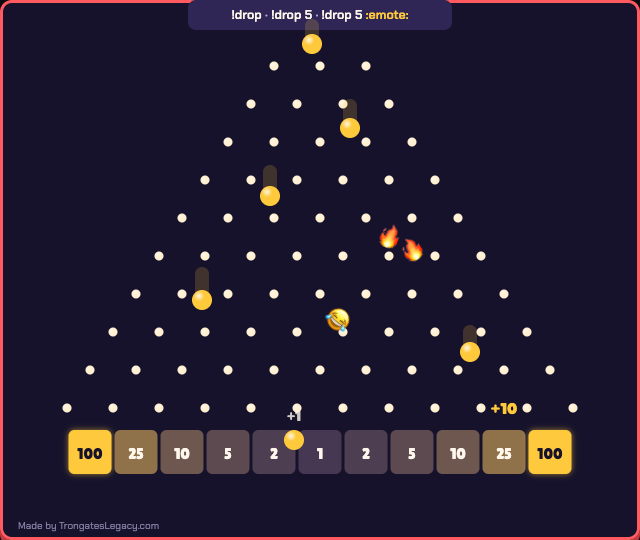
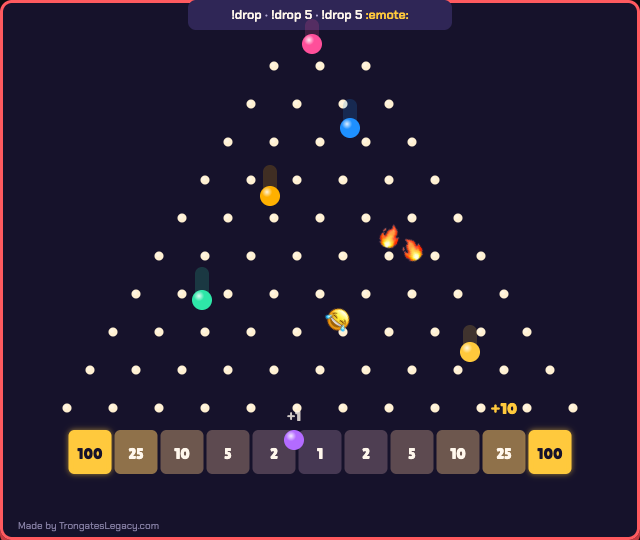
Chaplinko plan: separate or combined layout; transparent by default; the leaderboard shows This stream, All time or both, switching every N seconds; balls in the chatter's colour; combined mockup, mockups re-shot

diff --git a/docs/plans/chaplinko/mockup.html b/docs/plans/chaplinko/mockup.html
@@ -1,6 +1,6 @@
 <!doctype html>
 <!-- A still mockup of Chaplinko (docs/plans/chaplinko/plan.md), drawn with the real widget themes. Not the game:
-     nothing moves. ?v=classic|pachinko|tower|jackpot|clear|panel|strip|lbclear|scene|accents shows one frame at its real size (for screenshots);
+     nothing moves. ?v=classic|pachinko|tower|jackpot|clear|panel|strip|lbclear|scene|combined|accents shows one frame at its real size (for screenshots);
      no ?v shows them all. -->
 <html lang="en">
 <head>
@@ -102,9 +102,11 @@ function svg(w, h, parts) { return `<svg width="${w}" height="${h}" viewBox="0 0
   </defs>${parts.join('')}</svg>`; }
 
 const peg = (x, y, r = 4.5) => `<circle cx="${x}" cy="${y}" r="${r}" style="fill:color-mix(in srgb, var(--text) 85%, var(--accent))"/><circle cx="${x - 1.2}" cy="${y - 1.2}" r="${r * .45}" fill="#fff" opacity=".35"/>`;
-const ball = (x, y, r = 10, trail = 0) =>
-  (trail ? `<line x1="${x}" y1="${y - trail}" x2="${x}" y2="${y}" stroke-width="${r * 1.4}" stroke-linecap="round" style="stroke:var(--accent)" opacity=".18"/>` : '') +
-  `<circle cx="${x}" cy="${y}" r="${r}" style="fill:var(--accent)"/><circle cx="${x}" cy="${y}" r="${r}" fill="url(#shine)"/>`;
+// balls take the chatter's chat colour (the default); a chatter with none gets the accent
+const ball = (x, y, r = 10, trail = 0, c = 'var(--accent)') =>
+  (trail ? `<line x1="${x}" y1="${y - trail}" x2="${x}" y2="${y}" stroke-width="${r * 1.4}" stroke-linecap="round" style="stroke:${c}" opacity=".18"/>` : '') +
+  `<circle cx="${x}" cy="${y}" r="${r}" style="fill:${c}"/><circle cx="${x}" cy="${y}" r="${r}" fill="url(#shine)"/>`;
+const CHAT = ['#ff4f9a', '#1e90ff', '#ffb000', '#2ee6a8', 'var(--accent)', '#b36bff'];
 // an emote ball: in the game the emote's own image (Twitch/Kick CDN), spinning as it rolls; here an emoji stands in
 const emote = (x, y, e, r = 13, rot = 0) => `<text x="${x}" y="${y}" font-size="${r * 2}" text-anchor="middle" dominant-baseline="central" transform="rotate(${rot} ${x} ${y})">${e}</text>`;
 const text = (x, y, s, size, style = '') => `<text x="${x}" y="${y}" font-size="${size}" text-anchor="middle" dominant-baseline="central" style="font-family:var(--display);font-weight:var(--display-weight);${style}">${s}</text>`;
@@ -130,8 +132,8 @@ function classic(o = {}) {
   const bw = (rows + 1) * gap, sy = top + (rows - 1) * dy + 22;
   p.push(slots(cx - bw / 2, sy, bw, 44, vals));
   if (o.balls !== false) {
-    p.push(ball(cx - 8, 44, 10, 18), ball(cx + 30, 128, 10, 22), ball(cx - 50, 196, 10, 24), emote(cx + 70, 236, '🔥', 12, 20), emote(cx + 92, 250, '🔥', 12, -30),
-      ball(cx - 118, 300, 10, 26), emote(cx + 18, 320, '😂', 12, 40), ball(cx + 150, 352, 10, 20), ball(cx - 26, sy + 10, 10));
+    p.push(ball(cx - 8, 44, 10, 18, CHAT[0]), ball(cx + 30, 128, 10, 22, CHAT[1]), ball(cx - 50, 196, 10, 24, CHAT[2]), emote(cx + 70, 236, '🔥', 12, 20), emote(cx + 92, 250, '🔥', 12, -30),
+      ball(cx - 118, 300, 10, 26, CHAT[3]), emote(cx + 18, 320, '😂', 12, 40), ball(cx + 150, 352, 10, 20, CHAT[4]), ball(cx - 26, sy + 10, 10, 0, CHAT[5]));
     // a score floating up from a slot
     p.push(text(cx - 26, sy - 14, '+1', 14, 'fill:var(--text);opacity:.8'), text(cx + 184, sy - 22, '+10', 16, 'fill:var(--accent)'));
   }
@@ -195,9 +197,11 @@ const V = {
   lbclear: ['Leaderboard source, transparent: panel and strip straight over the game · chatagram and neon themes', () => `<div class="scene" style="width:960px;height:540px">
     <div style="position:absolute;left:0;top:0">${frame('chatagram', 300, 270, panel(), '', true)}</div>
     <div style="position:absolute;left:0;bottom:0">${frame('neon', 720, 72, strip(), '', true)}</div></div>`],
-  scene: ['How a streamer might place them: two sources over their game (1280×720)', () => `<div class="scene">
-    <div class="src-at" style="left:28px;top:28px;width:180px;height:162px"><div style="transform:scale(.6);transform-origin:0 0">${frame('royal', 300, 270, panel())}</div><span class="tag">leaderboard source</span></div>
-    <div class="src-at" style="right:28px;bottom:28px;width:384px;height:324px"><div style="transform:scale(.6);transform-origin:0 0">${frame('royal', 640, 540, classic())}</div><span class="tag">board source</span></div></div>`],
+  scene: ['Separate: two sources over the game, transparent (the default) (1280×720)', () => `<div class="scene">
+    <div class="src-at" style="left:28px;top:28px;width:180px;height:162px"><div style="transform:scale(.6);transform-origin:0 0">${frame('royal', 300, 270, panel(), '', true)}</div><span class="tag">leaderboard source</span></div>
+    <div class="src-at" style="right:28px;bottom:28px;width:384px;height:324px"><div style="transform:scale(.6);transform-origin:0 0">${frame('royal', 640, 540, classic(), '', true)}</div><span class="tag">board source</span></div></div>`],
+  combined: ['Combined: one source, the board with the leaderboard beside it · 960×540 · transparent (the default) · chatagram theme', () => `<div class="scene" style="width:960px;height:540px">${frame('chatagram', 960, 540,
+    `<div style="position:absolute;left:0;top:0">${classic()}</div><div style="position:absolute;right:0;top:0;width:300px;height:270px">${panel()}</div>`, '', true)}</div>`],
   accents: ['The same board, any theme and accent (640×540 each, shown at half size)', () => `<div class="mini">${[['neutral', ''], ['light', ''], ['cozy', ''], ['chatagram', '#2ee6a8'], ['neon', '#ff4155'], ['royal', '#ffd98a'], ['deep', '#45d6c8'], ['candy', '#ff7bd5']]
     .map(([t, a]) => `<div style="width:320px;height:270px;overflow:hidden"><div style="transform:scale(.5);transform-origin:0 0">${frame(t, 640, 540, classic({ w: 640 }), a)}</div></div>`).join('')}</div>`],
 };

diff --git a/docs/plans/chaplinko/plan.md b/docs/plans/chaplinko/plan.md
@@ -6,7 +6,8 @@ later (see "Later").
 
 Mockups (`mockup.html`, drawn with the real `themes.css`; `?v=<name>` shows one at its real size). Board source:
 [board](classic.png), [big win](jackpot.png), [transparent](clear.png), [themes and accents](accents.png). Leaderboard
-source: [panel](panel.png), [strip](strip.png), [transparent](lbclear.png). Both on a stream: [scene](scene.png).
+source: [panel](panel.png), [strip](strip.png), [transparent](lbclear.png). On a stream: [separate](scene.png),
+[combined](combined.png).
 
 ## What the owner asked for (2026-09-29)
 
@@ -17,8 +18,13 @@ source: [panel](panel.png), [strip](strip.png), [transparent](lbclear.png). Both
 - **Balls don't show names.** Names are for the leaderboard, and for a popup when someone hits the top slot ("pixelpriya
   scored 100").
 - Set up and configured the way Chatagram is.
-- **The leaderboard is a separate browser source**, placed wherever the streamer likes, and **compact**: just the list.
-- **Fully transparent** is an option for both the board and the leaderboard.
+- **Separate or combined** (2026-09-30): the board and the leaderboard as two browser sources, or as one source with
+  the leaderboard beside the board. The streamer picks.
+- The separate leaderboard is **compact**: just the list.
+- **Transparent by default** (2026-09-30), for the board and the leaderboard. A background is an option.
+- The leaderboard shows **This stream, All time, or both**; with both, it **switches between them every so many
+  seconds**, and the streamer sets how many (2026-09-30).
+- **Balls are the chatter's chat colour** by default (2026-09-30).
 - **The commands are shown on the board**, not on the leaderboard.
 - The name is **Chaplinko** (chat + Plinko). The command is `!drop`.
 
@@ -60,11 +66,21 @@ A Plinko triangle of pegs over a row of slots. Colours, fonts and frame come fro
 - **Top prize**: the highest slot value. Hitting it shows the big win card (below). Advanced → "Big win card for": top
   slot / top two / off.
 
-## Two browser sources
+## Separate or combined
 
-The streamer adds **two OBS browser sources** with two links from the set-up page. Both links carry the channels, which
-is how they find each other's data, and each has its own look settings. The leaderboard is optional: the board works on
-its own.
+The first choice on the set-up page is **Layout**:
+
+- **Separate** (the default): **two OBS browser sources** with two links, the board and the leaderboard, each placed
+  and sized on its own (mockup: separate). Both links carry the channels, which is how they find each other's data, and
+  each has its own look settings. The leaderboard is optional: the board works on its own.
+- **Combined**: **one browser source**, 960 × 540, with the board and the leaderboard panel beside it (mockup:
+  combined). The panel can be on the left or the right. One link, one theme. It needs nothing shared between sources,
+  so it works even if the step-1 OBS test fails.
+- **Board only**: the combined link with the leaderboard turned off, for streamers who don't want one (the big win card
+  still names the winner).
+
+Combined isn't separate code: the board page draws the same leaderboard as the leaderboard page, reading its own
+scores directly.
 
 ### The board source
 
@@ -72,10 +88,11 @@ its own.
 - **The commands are on the board**, in the drop chute at the top: `!drop · !drop 5 · !drop 5 :emote:` (using the
   streamer's own command names if they renamed them). This is where viewers look, and it keeps the leaderboard compact.
   It can be turned off (Advanced → Show the commands).
-- **Background**: 0–100% (Chatagram's `bgo`, but going down to 0), default 95%. **Transparent** (0) also drops the
-  theme's frame and gives pegs, slots, balls and the `+N` numbers a soft dark shadow so they read over any game (mockup:
-  transparent). The big win card keeps its own panel and dims the board only as a soft glow behind the card, not the
-  whole source. Transparent is one click on the set-up page, beside the theme.
+- **Transparent by default**: no background and no frame; pegs, slots, balls, the chute and the `+N` numbers have a
+  soft dark shadow so they read over any game (mockup: transparent). **Background** is a setting, 0–100% (Chatagram's
+  `bgo`, but going down to 0 and defaulting to 0), for streamers who want the theme's panel and frame (mockup: themes
+  and accents). The big win card always keeps its own panel and dims the board only as a soft glow behind the card,
+  not the whole source.
 - The big win card is drawn here, over the board.
 
 ### The leaderboard source
@@ -84,12 +101,17 @@ its own.
 
 - **panel** 300 × 270: the title, the This stream / All time tabs, the top 5 (mockup: panel). **How many** is a
   setting (3–10), and the source's height follows it.
-- **strip** 720 × 72: This stream's top 3 in a row, for the top or bottom of the screen (mockup: strip).
+- **strip** 720 × 72: the top 3 in a row, for the top or bottom of the screen, with the list's name at the start
+  (mockup: strip).
 - Its own theme, accent, background and credit, so it can match the board or not.
-- **Background** 0–100%, default 95%, with **Transparent** (0) one click away, as on the board: no background, frame,
-  panels or pill boxes, only the text and the active tab, with a text shadow so it reads over any game. The inactive tab
-  becomes an outline (mockup: transparent leaderboard).
-- **Which list**: This stream / All time / take turns every 15 s (default).
+- **Transparent by default**, as on the board: no background, frame, panels or pill boxes, only the text and the
+  active tab, with a text shadow so it reads over any game. The inactive tab becomes an outline (mockup: transparent
+  leaderboard). **Background** 0–100% is a setting, default 0.
+- **Show**: This stream / All time / **both** (default).
+  - **Both**: it switches between the two every **Switch every** seconds (default 15, range 5–300), with a short fade.
+    The tabs show which is on (panel); the strip's name changes.
+  - **One list**: the tabs go and the title says which list it is ("This stream").
+- The combined layout has the same **Show** and **Switch every** settings.
 - **How it gets the scores**: OBS browser sources on the same site share storage, and the board saves its scores there as
   they change. The board also announces each change on a `BroadcastChannel` named after the channels, so the leaderboard
   updates as soon as a ball lands; the leaderboard also re-reads the save every 5 s in case a message is missed. The
@@ -110,8 +132,8 @@ its own.
 - **Most balls on screen**: default 40, range 10–100. Beyond that, drops **queue** and fall in turn, spaced out, so a
   raid can't make OBS stutter. The queue has a limit (200) and drops beyond it are ignored.
 - The leaderboard and moderation commands follow Chatagram's pattern, all starting `!drop` and renamable in Advanced:
-  - `!drop top`: **off by default**, since the leaderboard is its own source. For streamers without one, it shows both
-    lists over the board for 8 s. Viewers share a 60 s cooldown.
+  - `!drop top`: **off by default**, since there's usually a leaderboard on screen. For streamers using board only, it
+    shows both lists over the board for 8 s. Viewers share a 60 s cooldown.
   - `!drop pause` / `!drop resume`: stop and restart new drops. Balls already falling land and score.
   - `!drop clear`: remove every ball and the queue, scoring nothing.
   - `!drop clearscores`: wipe both leaderboards (the owner only).
@@ -137,9 +159,11 @@ safe and means no lookups.
 
 ## Balls, scoring and the big win
 
-- A ball is drawn in the accent colour with a shine. Advanced → Ball colour: accent (default) / platform (Twitch purple,
-  Kick green) / the chatter's chat colour (Twitch's `color` tag, Kick's `identity.color`) / rainbow. An emote ball is
-  the emote itself, turning as it rolls.
+- A ball is drawn in **the chatter's chat colour** (default; Twitch's `color` tag, Kick's `identity.color`) with a
+  shine, so a viewer can follow their own balls without names. A chatter with no colour set gets the accent. Colours
+  too dark to see on a transparent board are lightened (a contrast check, as the themes do). Advanced → Ball colour:
+  chat colour (default) / accent / platform (Twitch purple, Kick green) / rainbow. An emote ball is the emote itself,
+  turning as it rolls.
 - **No names on balls.** When a ball lands, its value rises from the slot (`+10`), and the points go to the person who
   dropped it.
 - **Leaderboards**: points only, per `platform:user`, as in Chatagram.
@@ -168,8 +192,10 @@ replay any drop exactly.
 
 ## Settings (Chatagram's model)
 
-Main: Twitch, Kick, rows, theme, accent, background (Transparent is one click). The leaderboard source's own settings
-sit in a separate part: its layout (panel / strip), how many, which list, theme, accent, background. Advanced: slot
+Main: Twitch, Kick, **layout** (separate / combined, and for combined: leaderboard left / right / off), rows, theme,
+accent, background (default 0, transparent). The leaderboard's own settings sit in a separate part: its shape (panel /
+strip, separate only), how many, show (This stream / All time / both), switch every, and for the separate source its
+own theme, accent and background. Advanced: slot
 values, big win card, show the commands, ball colour, most balls per command, cooldown, most balls on screen, ball size,
 gravity (slow / normal / fast), commands and who can use them, ignored users, `!drop top` on or off, show All time, the
 credit.
@@ -180,13 +206,15 @@ the queue and balls in the air are gone, and they hadn't scored yet.
 ## The page
 
 `/chaplinko/`, built the same way as Chatagram's: a hero with a pretend chat dropping balls, the themes, set-up with a
-live preview of both sources and the odds table, **two Copy OBS link buttons** (board, leaderboard), and an FAQ ("is
+live preview (both sources, or the combined one) and the odds table, **Copy OBS link buttons** (board and leaderboard
+for separate, one for combined), and an FAQ ("is
 this gambling?": no; "how do I add the leaderboard?"). It goes on `/widgets/` and in the sitemap, with its own
 link-preview image.
 
 ## Build order (each step tested and committed on its own)
 
-1. **Prove two sources can talk** in the owner's OBS (a two-page test: shared storage and `BroadcastChannel`).
+1. **Prove two sources can talk** in the owner's OBS (a two-page test: shared storage and `BroadcastChannel`). If they
+   can't, combined still works, and separate needs the fallback above.
 2. **Shared scores**: move `scores.js` and the stream check to `widgets/lib/`, with Chatagram unchanged (all its tests
    still pass).
 3. **Emotes in chat.js**: Twitch and Kick parsing, with tests from captured messages.
@@ -194,8 +222,9 @@ link-preview image.
    nothing gets stuck), and the odds table script.
 5. **Board source**: `play.html/.css/.js`, transparent, commands, the queue, the big win card, saving the scores, reduced
    motion, and browser tests with fake Twitch and Kick sockets.
-6. **Leaderboard source**: `leaderboard.html`, panel and strip, reading the board's scores live, with a browser test
-   running both pages at once.
+6. **Leaderboard**: `leaderboard.js` draws the list (panel and strip, show and switch every); `leaderboard.html` is the
+   separate source reading the board's scores live, with a browser test running both pages at once; the combined layout
+   uses the same code inside the board.
 7. **Set-up page**, the widgets list entry, the preview pictures, the link-preview image.
 8. **`/obs/chaplinko`** for Trongates Legacy's scenes.
 9. Docs: a "Chaplinko" section in docs/widgets.md, plus testing.md.
@@ -214,5 +243,8 @@ link-preview image.
 ## Open questions for the owner
 
 1. **Cooldown and cap defaults**: 20 s per person and 5 balls per command? A big chat might want 60 s.
-2. **Leaderboard default**: take turns between This stream and All time, or This stream only?
-3. **Chatter colour** as the default ball colour instead of the accent? It's livelier but less on-theme.
+2. **Default layout**: separate or combined? The plan says separate (the most flexible), but combined is one link and
+   the easiest to set up.
+
+Decided 2026-09-30: transparent by default; the leaderboard shows both lists by default, switching every 15 s
+(configurable); balls are the chatter's colour.
